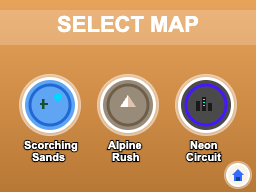
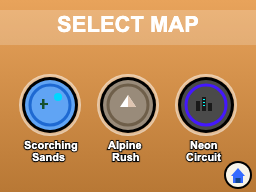
touch and dpad handling singleplayer

diff --git a/source/game.c b/source/game.c
@@ -1,14 +1,17 @@
 #include "game.h"
 
 #include <nds.h>
-
+#include "game_types.h"
+#include <string.h>
+#include "color.h"
 #include "map_bottom.h"
 #include "map_top.h"
 
 //=============================================================================
 // CONSTANTS
 //=============================================================================
-#define SINGLEPLAYER_BTN_COUNT 4
+#define SINGLEPLAYER_BTN_COUNT SP_BTN_COUNT
+#define SP_SELECTION_PAL_BASE 240 // Base palette index for selection tiles
 
 //=============================================================================
 // GLOBAL STATE
@@ -34,9 +37,64 @@ void configBG_Main_Singleplayer(void) {
     REG_BG2PD = 256;
 }
 
-void configureGraphics_Sub_Singleplayer(void) {
-    REG_DISPCNT_SUB = MODE_5_2D | DISPLAY_BG0_ACTIVE;
-    VRAM_C_CR = VRAM_ENABLE | VRAM_C_SUB_BG;
+void configureGraphics_Sub_Singleplayer(void){
+    REG_DISPCNT_SUB = MODE_0_2D | DISPLAY_BG0_ACTIVE | DISPLAY_BG1_ACTIVE;
+}
+
+
+//=============================================================================
+// SELECTION HIGHLIGHT TILES
+//=============================================================================
+
+static const u8 selectionTile0[64] = {[0 ... 63] = 240}; // MAP1
+static const u8 selectionTile1[64] = {[0 ... 63] = 241}; // MAP2
+static const u8 selectionTile2[64] = {[0 ... 63] = 242}; // MAP3
+static const u8 selectionTile3[64] = {[0 ... 63] = 243}; // HOME
+
+static void drawSelectionRect(SingleplayerButton btn, u16 tileIndex){
+    u16 *map = BG_MAP_RAM_SUB(1);
+    int startX, startY, endX, endY;
+
+    switch (btn)
+    {
+    case SP_BTN_MAP1: // Scorching Sands
+        startX = 2;
+        startY = 9;
+        endX = 12;
+        endY = 21;
+        break;
+    case SP_BTN_MAP2: // Alpine Rush
+        startX = 11;
+        startY = 9;
+        endX = 21;
+        endY = 21;
+        break;
+    case SP_BTN_MAP3: // Neon Circuit
+        startX = 20;
+        startY = 9;
+        endX = 30;
+        endY = 21;
+        break;
+    case SP_BTN_HOME: // Home button
+        startX = 28;
+        startY = 20;
+        endX = 32;
+        endY = 24;
+        break;
+    default:
+        return;
+    }
+
+    for (int row = startY; row < endY; row++)
+        for (int col = startX; col < endX; col++)
+            map[row * 32 + col] = tileIndex;
+}
+
+static void Singleplayer_setSelectionTint(SingleplayerButton btn, bool show){
+    if (btn < 0 || btn >= SINGLEPLAYER_BTN_COUNT)
+        return;
+    int paletteIndex = SP_SELECTION_PAL_BASE + btn;
+    BG_PALETTE_SUB[paletteIndex] = show ? SP_SELECT_COLOR : BLACK;
 }
 
 void configBG_Sub_Singleplayer(void) {
@@ -46,6 +104,28 @@ void configBG_Sub_Singleplayer(void) {
     dmaCopy(map_bottomPal, BG_PALETTE_SUB, map_bottomPalLen);
     dmaCopy(map_bottomTiles, BG_TILE_RAM_SUB(1), map_bottomTilesLen);
     dmaCopy(map_bottomMap, BG_MAP_RAM_SUB(0), map_bottomMapLen);
+
+    // BG1: Selection highlight layer (behind)
+    BGCTRL_SUB[1] = BG_32x32 | BG_COLOR_256 | BG_MAP_BASE(1) | BG_TILE_BASE(3) | BG_PRIORITY(1);
+
+    // Load selection tiles
+    dmaCopy(selectionTile0, (u8 *)BG_TILE_RAM_SUB(3) + (0 * 64), 64);
+    dmaCopy(selectionTile1, (u8 *)BG_TILE_RAM_SUB(3) + (1 * 64), 64);
+    dmaCopy(selectionTile2, (u8 *)BG_TILE_RAM_SUB(3) + (2 * 64), 64);
+    dmaCopy(selectionTile3, (u8 *)BG_TILE_RAM_SUB(3) + (3 * 64), 64);
+
+    // Clear BG1 map
+    memset(BG_MAP_RAM_SUB(1), 0, 32 * 24 * 2);
+    BG_PALETTE_SUB[240] = BLACK;
+    BG_PALETTE_SUB[241] = BLACK;
+    BG_PALETTE_SUB[242] = BLACK;
+    BG_PALETTE_SUB[243] = BLACK;
+
+    // Draw selection areas
+    drawSelectionRect(SP_BTN_MAP1, TILE_SEL_MAP1);
+    drawSelectionRect(SP_BTN_MAP2, TILE_SEL_MAP2);
+    drawSelectionRect(SP_BTN_MAP3, TILE_SEL_MAP3);
+    drawSelectionRect(SP_BTN_HOME, TILE_SEL_SP_HOME);
 }
 
 //=============================================================================
@@ -53,10 +133,48 @@ void configBG_Sub_Singleplayer(void) {
 //=============================================================================
 void handleDPadInputSingleplayer(void) {
     int keys = keysDown();
+
     if (keys & KEY_UP)
+    {
         selected = (selected - 1 + SINGLEPLAYER_BTN_COUNT) % SINGLEPLAYER_BTN_COUNT;
+    }
+
     if (keys & KEY_DOWN)
+    {
         selected = (selected + 1) % SINGLEPLAYER_BTN_COUNT;
+    }
+
+    if (keys & KEY_LEFT)
+    {
+        if (selected == SP_BTN_MAP2)
+        {
+            selected = SP_BTN_MAP1;
+        }
+        else if (selected == SP_BTN_MAP3)
+        {
+            selected = SP_BTN_MAP2;
+        }
+        else if (selected == SP_BTN_HOME)
+        {
+            selected = SP_BTN_MAP3;
+        }
+    }
+
+    if (keys & KEY_RIGHT)
+    {
+        if (selected == SP_BTN_MAP1)
+        {
+            selected = SP_BTN_MAP2;
+        }
+        else if (selected == SP_BTN_MAP2)
+        {
+            selected = SP_BTN_MAP3;
+        }
+        else if (selected == SP_BTN_MAP3)
+        {
+            selected = SP_BTN_HOME;
+        }
+    }
 }
 
 void handleTouchInputSingleplayer(void) {
@@ -66,28 +184,28 @@ void handleTouchInputSingleplayer(void) {
     touchPosition touch;
     touchRead(&touch);
 
-    if (touch.px < 0 || touch.px > 256 || touch.py < 0 || touch.py > 192) {
-        return;  // sanity check
+    if (touch.px < 0 || touch.px > 256 || touch.py < 0 || touch.py > 192)
+    {
+        return;
     }
 
     // Map 1 - Scorching Sands (circle + text)
-    // TODO: Get exact coordinates from your PNG using click_coords.py
-    // Placeholder hitbox - update with actual coordinates
-    if (touch.px >= 20 && touch.px <= 80 && touch.py >= 80 && touch.py <= 165) {
+    if (touch.px >= 20 && touch.px <= 80 && touch.py >= 70 && touch.py <= 165)
+    {
         selected = SP_BTN_MAP1;
         return;
     }
 
     // Map 2 - Alpine Rush (circle + text)
-    // TODO: Get exact coordinates from your PNG
-    if (touch.px >= 98 && touch.px <= 158 && touch.py >= 80 && touch.py <= 165) {
+    if (touch.px >= 98 && touch.px <= 158 && touch.py >= 70 && touch.py <= 165)
+    {
         selected = SP_BTN_MAP2;
         return;
     }
 
     // Map 3 - Neon Circuit (circle + text)
-    // TODO: Get exact coordinates from your PNG
-    if (touch.px >= 176 && touch.px <= 236 && touch.py >= 80 && touch.py <= 165) {
+    if (touch.px >= 176 && touch.px <= 236 && touch.py >= 70 && touch.py <= 165)
+    {
         selected = SP_BTN_MAP3;
         return;
     }
@@ -117,25 +235,37 @@ GameState Singleplayer_update(void) {
     handleDPadInputSingleplayer();
     handleTouchInputSingleplayer();
 
+    // Update highlight when selection changes
+    if (selected != lastSelected)
+    {
+        if (lastSelected != SP_BTN_NONE)
+            Singleplayer_setSelectionTint(lastSelected, false);
+        if (selected != SP_BTN_NONE)
+            Singleplayer_setSelectionTint(selected, true);
+        lastSelected = selected;
+    }
+
     // Handle button activation on release
-    if (keysUp() & (KEY_A | KEY_TOUCH)) {
-        switch (selected) {
-            case SP_BTN_MAP1:
-                // TODO: Load Scorching Sands map
-                // return GAMEPLAY; // when ready
-                break;
-            case SP_BTN_MAP2:
-                // TODO: Load Alpine Rush map
-                // return GAMEPLAY; // when ready
-                break;
-            case SP_BTN_MAP3:
-                // TODO: Load Neon Circuit map
-                // return GAMEPLAY; // when ready
-                break;
-            case SP_BTN_HOME:
-                return HOME_PAGE;
-            default:
-                break;
+    if (keysUp() & (KEY_A | KEY_TOUCH))
+    {
+        switch (selected)
+        {
+        case SP_BTN_MAP1:
+            // TODO: Load Scorching Sands map
+            // return GAMEPLAY;
+            break;
+        case SP_BTN_MAP2:
+            // TODO: Load Alpine Rush map
+            // return GAMEPLAY;
+            break;
+        case SP_BTN_MAP3:
+            // TODO: Load Neon Circuit map
+            // return GAMEPLAY;
+            break;
+        case SP_BTN_HOME:
+            return HOME_PAGE;
+        default:
+            break;
         }
     }
 

diff --git a/source/game_types.h b/source/game_types.h
@@ -1,28 +1,31 @@
 #ifndef GAME_TYPES_H
 #define GAME_TYPES_H
-
 #include <nds.h>
 #include <stdbool.h>
 
-typedef enum {
+typedef enum
+{
     HOME_PAGE,
     SETTINGS,
     SINGLEPLAYER,
     MULTIPLAYER
-} GameState;  // will add more states later
+} GameState;
 
-typedef struct {
-    u16* gfx;
+typedef struct
+{
+    u16 *gfx;
     int x;
     int y;
     int id;
 } HomeKartSprite;
 
-typedef struct {
+typedef struct
+{
     int x, y, width, height;
 } MenuItemHitBox;
 
-typedef enum {
+typedef enum
+{
     HOME_BTN_NONE = -1,
     HOME_BTN_SINGLEPLAYER = 0,
     HOME_BTN_MULTIPLAYER = 1,
@@ -30,7 +33,8 @@ typedef enum {
     HOME_BTN_COUNT
 } HomeButtonSelected;
 
-typedef enum {
+typedef enum
+{
     SETTINGS_BTN_NONE = -1,
     SETTINGS_BTN_WIFI = 0,
     SETTINGS_BTN_MUSIC = 1,
@@ -41,18 +45,24 @@ typedef enum {
     SETTINGS_BTN_COUNT
 } SettingsButtonSelected;
 
-typedef enum {
+typedef enum
+{
     SP_BTN_NONE = -1,
-    SP_BTN_MAP1 = 0,
-    SP_BTN_MAP2 = 1,
-    SP_BTN_MAP3 = 2,
-    SP_BTN_HOME = 3,
+    SP_BTN_MAP1 = 0, // Scorching Sands
+    SP_BTN_MAP2 = 1, // Alpine Rush
+    SP_BTN_MAP3 = 2, // Neon Circuit
+    SP_BTN_HOME = 3, // Home button
     SP_BTN_COUNT
 } SingleplayerButton;
 
-typedef enum { TOGGLE_OFF = 0, TOGGLE_ON = 1 } ToggleState;
+typedef enum
+{
+    TOGGLE_OFF = 0,
+    TOGGLE_ON = 1
+} ToggleState;
 
-typedef enum {
+typedef enum
+{
     TILE_RED = 3,
     TILE_GREEN = 4,
     TILE_SEL_WIFI = 5,
@@ -63,4 +73,12 @@ typedef enum {
     TILE_SEL_HOME = 10
 } SettingsTileIndex;
 
-#endif  // GAME_TYPES_H
+typedef enum
+{
+    TILE_SEL_MAP1 = 0,
+    TILE_SEL_MAP2 = 1,
+    TILE_SEL_MAP3 = 2,
+    TILE_SEL_SP_HOME = 3
+} SingleplayerTileIndex;
+
+#endif // GAME_TYPES_H

diff --git a/source/color.h b/source/color.h
@@ -14,5 +14,6 @@
 #define TOGGLE_ON_COLOR RGB15(6, 26, 6)
 #define TOGGLE_OFF_COLOR RGB15(28, 4, 4)
 #define SETTINGS_SELECT_COLOR RGB15(20, 20, 20)
+#define SP_SELECT_COLOR RGB15(20, 20, 20)
 
-#endif  // COLOR_H
+#endif // COLOR_H
